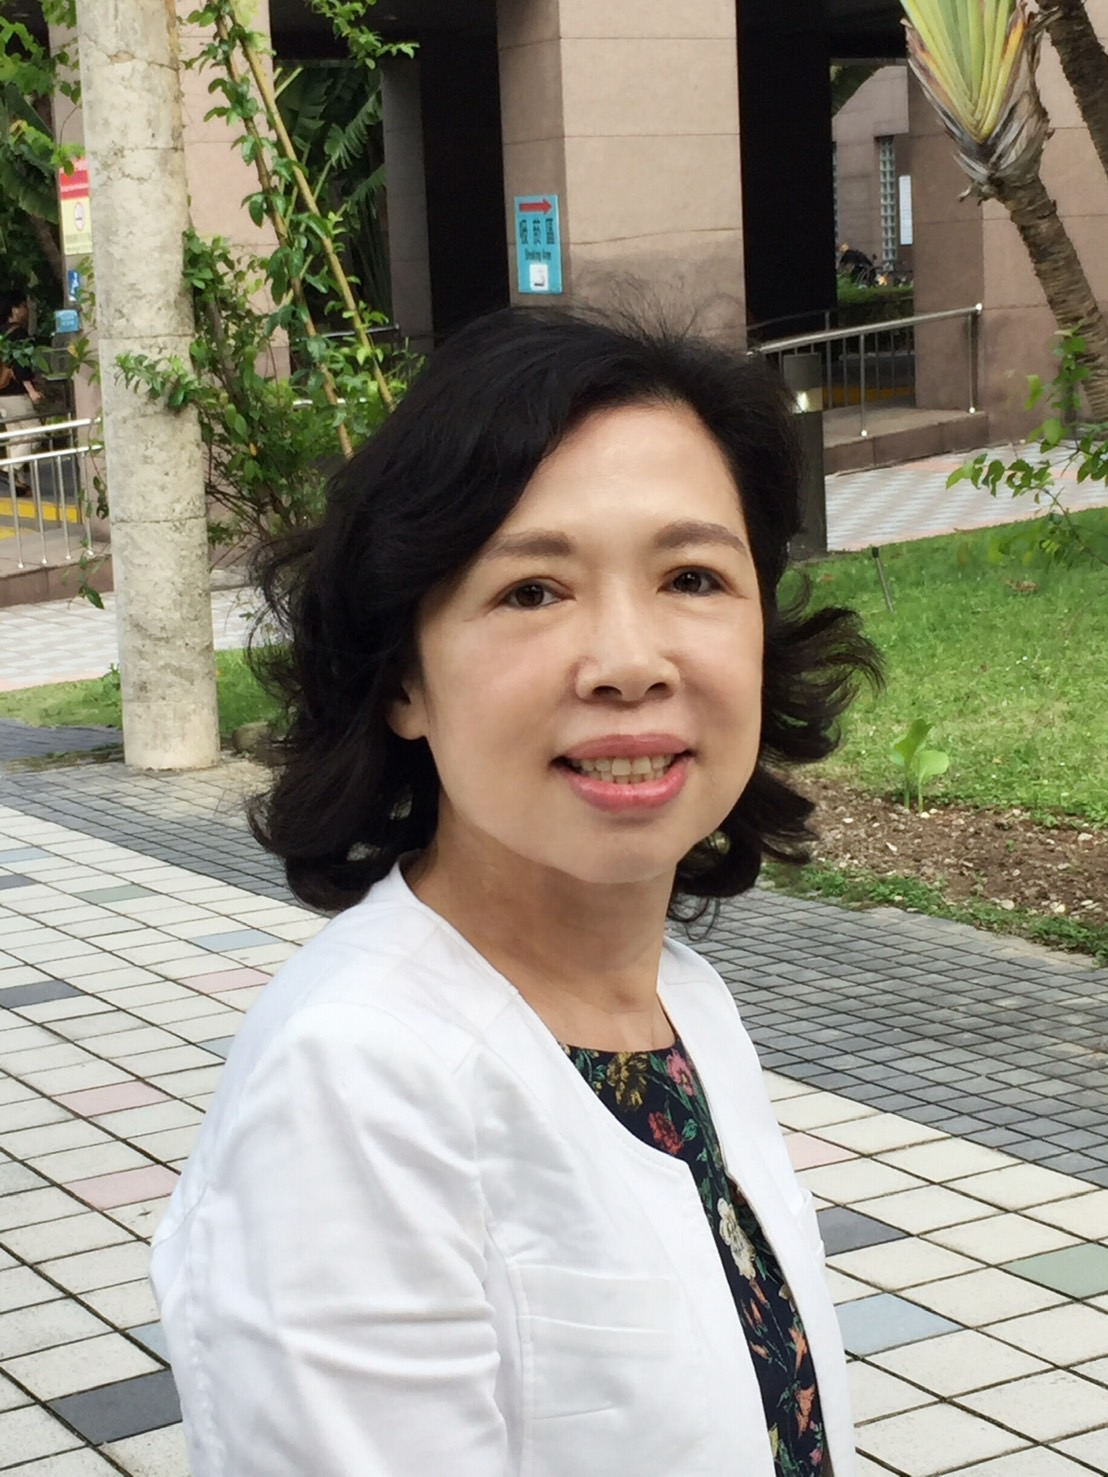
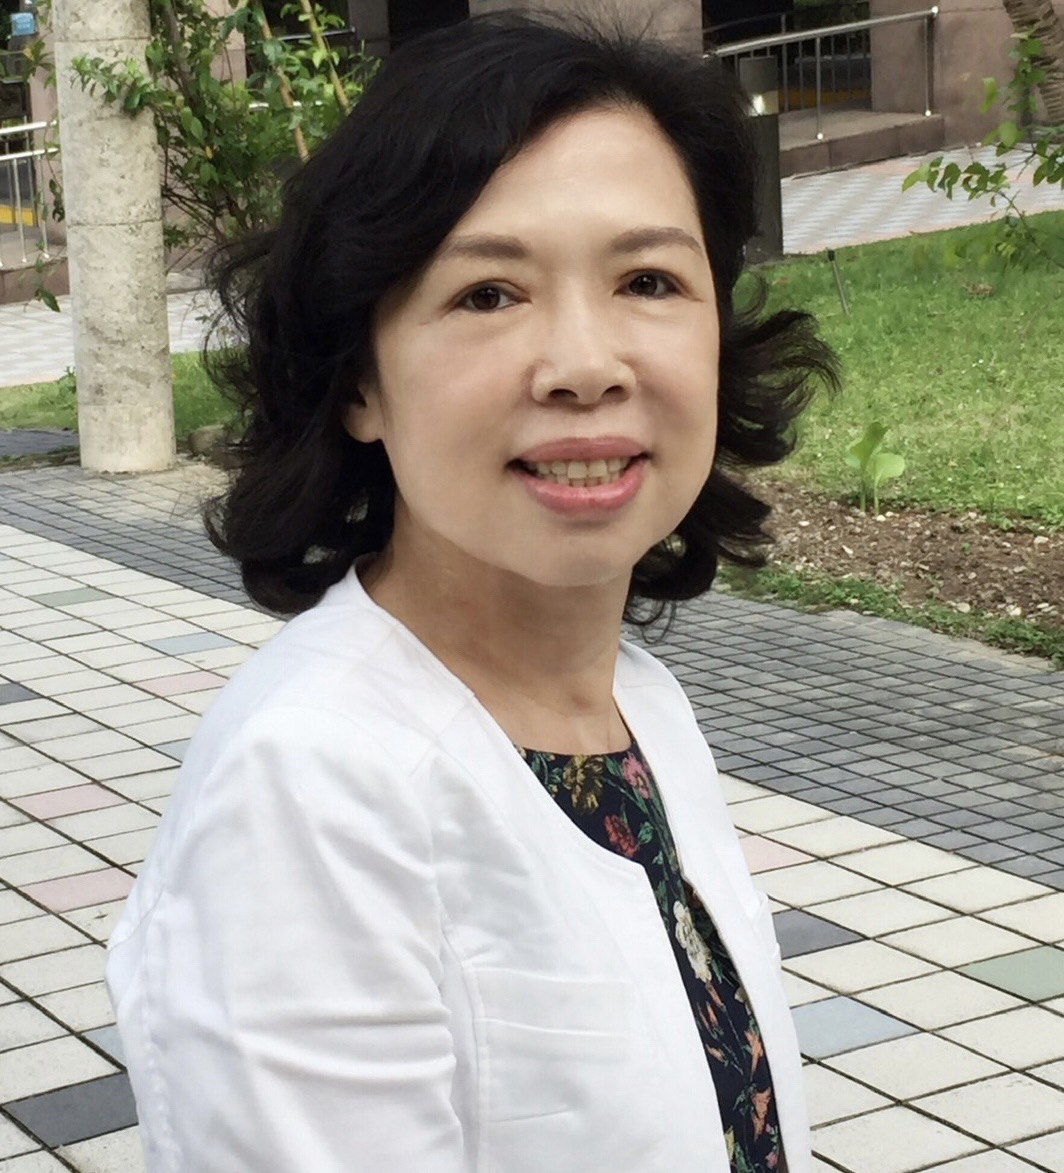
update

diff --git a/neighbors/d-xie-an-yu.md b/neighbors/d-xie-an-yu.md
@@ -2,10 +2,10 @@
 sn: 0
 sc: ⑯
 build: 'D棟'
-name: '謝安育'
+name: '楊伯麟'
 slogan: '理性思考 和平對談'
-image: '/d-xie-an-yu.jpg'
+image: '/luke.jpg'
 ---
-## 任職於緯創資通擔任產品專案資深經理。
+## 任職於緯創資通擔任產品專案資深經理
 
-努力與委員們改善社區事務. 一同創造自在舒適生活
+希望能夠更加認識和關心社區，也能夠更加認識和關心彼此.和其他委員一起合作，為社區服務。

diff --git a/neighbors/a-li-ke-qiang.md b/neighbors/a-li-ke-qiang.md
@@ -7,6 +7,7 @@ slogan: '共創美好社區'
 image: '/li-ke-qiang.png'
 ---
 ## 台電發電廠員工
-1. 傾聽不同聲音，有效解決社區共同問題。
-2. 維護多數權益並尊重少數人意見，以獲得社區利益最大化。
+
+1. 解決社區問題，以符合眾人利益。
+2. 創造社區有利環境，提昇社區價值。
 3. 共同努力打造優質社區環境。
